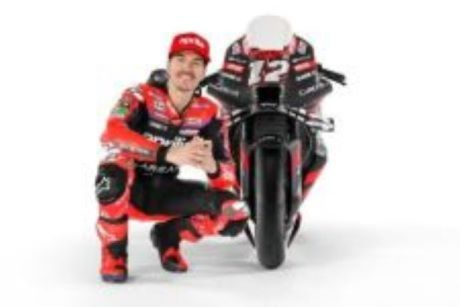
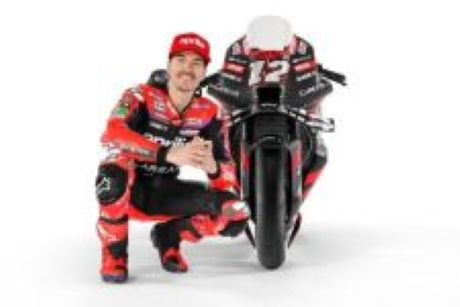
Add files via upload

diff --git a/estilo/estilo.css b/estilo/estilo.css
@@ -7,39 +7,29 @@
   color:#FFD700; /*color de elementos con este atributo, advertencia por color fondo*/
 }
 
+/* Especificidad de 002*/
+nav> a{
+  text-decoration-line: none; text-decoration-color: #6BB5FF;
+  color: #6BB5FF;
+}
 
 /* Especificidad de 001*/
 a{
-  color: #6BB5FF; /*color de elemento, advertencia por falta de color de fondo pero se hereda de body*/
+  color: #6BB5FF;
 }
-/* Especificidad de 002*/
-nav> a{
-  text-decoration-line: none; 
-}
-
-
 
  /* Especificidad de 001*/
  body {font-family:"Arial","Times New Roman", sans-serif;
-    background-color:#030303 ; color: #FFFFFF} 
+    background-color:#0D1B2A ; color: #FFFFFF} 
 
 /* Especificidad: 001 */
 header {
-  background-color:#1a1a1a ; /* color de fondo del header, hay advertencia por el color pero se hereda de body */
+  background-color:#0D1B2A ; /* color de fondo del header, hay advertencia por el color pero se hereda de body */
 }
 
 /* Especificidad: 001 */
 h1 {
-  font-size: 2.7em;
   color:#FFD700; /* color del h1, hay advertencia por el color de fondo pero se hereda de body */
-}
-/* Especificidad: 001 */
-h2{
-  font-size: 1.8em;
-}
-/* Especificidad: 001 */
-h3{
-  font-size: 1.5em;
 }
 
 /* Especificidad: 001 */
@@ -47,38 +37,11 @@ nav {
   color:#6BB5FF; /* color del nav, hay advertencia por el color de fondo pero se hereda de body */
 }
 
-/* Especificidad: 002 */
-header+p{
+/* Especificidad: 001 */
+p:first-of-type{
   font-size: 0.8em;
 }
-/* Especificidad: 001 */
-Video,audio {
- width:100%;
- height:auto;
-}
-/* Especificidad: 001 */
-table{
-  border-color:#FFFFFF;
-  border-style: double;
-}
-/* Especificidad: 001 */
-th,td{
-  border-color:#FFFFFF;
-  border-style: double;
-  text-align: center;
-}
-/* Especificidad: 001 */
-caption{
-  font-size: 1.5em;
-}
-/* Especificidad: 001 */
-dt{
-  font-size: 1.3em;
-}
-/* Especificidad: 001 */
-dd{
-  font-size: 0.8em;
-}
+
 
 
 

diff --git a/estilo/layout.css b/estilo/layout.css
@@ -2,44 +2,13 @@
  /* Estilos generales del proyecto MotoGP-Desktop*/
 
 
-
-@media screen{
 header{
   display:flex;
-  justify-content: flex-start;
-  flex-flow: column wrap;
-
-}
-header nav{
-  display:flex;
-  flex-direction: row;
-  justify-content: space-around;
-  
-}
 }
 
-@media (max-width: 465px){
-
-header nav{
-  flex-direction: column; /*advertencia por redifinición, necesaria*/
+nav{
+  flex-direction: row-reverse;
 }
-header + p {
-    display: none; 
-}
-
-
-}
-
-
-@media (max-width: 799px){
-
-header nav{
-  justify-content: space-between;/*advertencia por redifinición, necesaria*/
-}
-}
-
-
-
 
 
 

diff --git a/piloto.html b/piloto.html
@@ -42,7 +42,7 @@
 
         
     <h2>Maverick Viñales</h2>
-    <p> Maverick Viñales Ruiz es un piloto de motociclismo español. 
+    <p> Maverick Viñales Ruiz es un piloto de motociclismo español. 
         Fue campeón del Campeonato del Mundo de Motociclismo de Moto3 en 2013.
         Desde 2015 compite en la categoría de MotoGP, resultando tercero en 2017 
         y 2019 con el equipo Monster Energy Yamaha.
